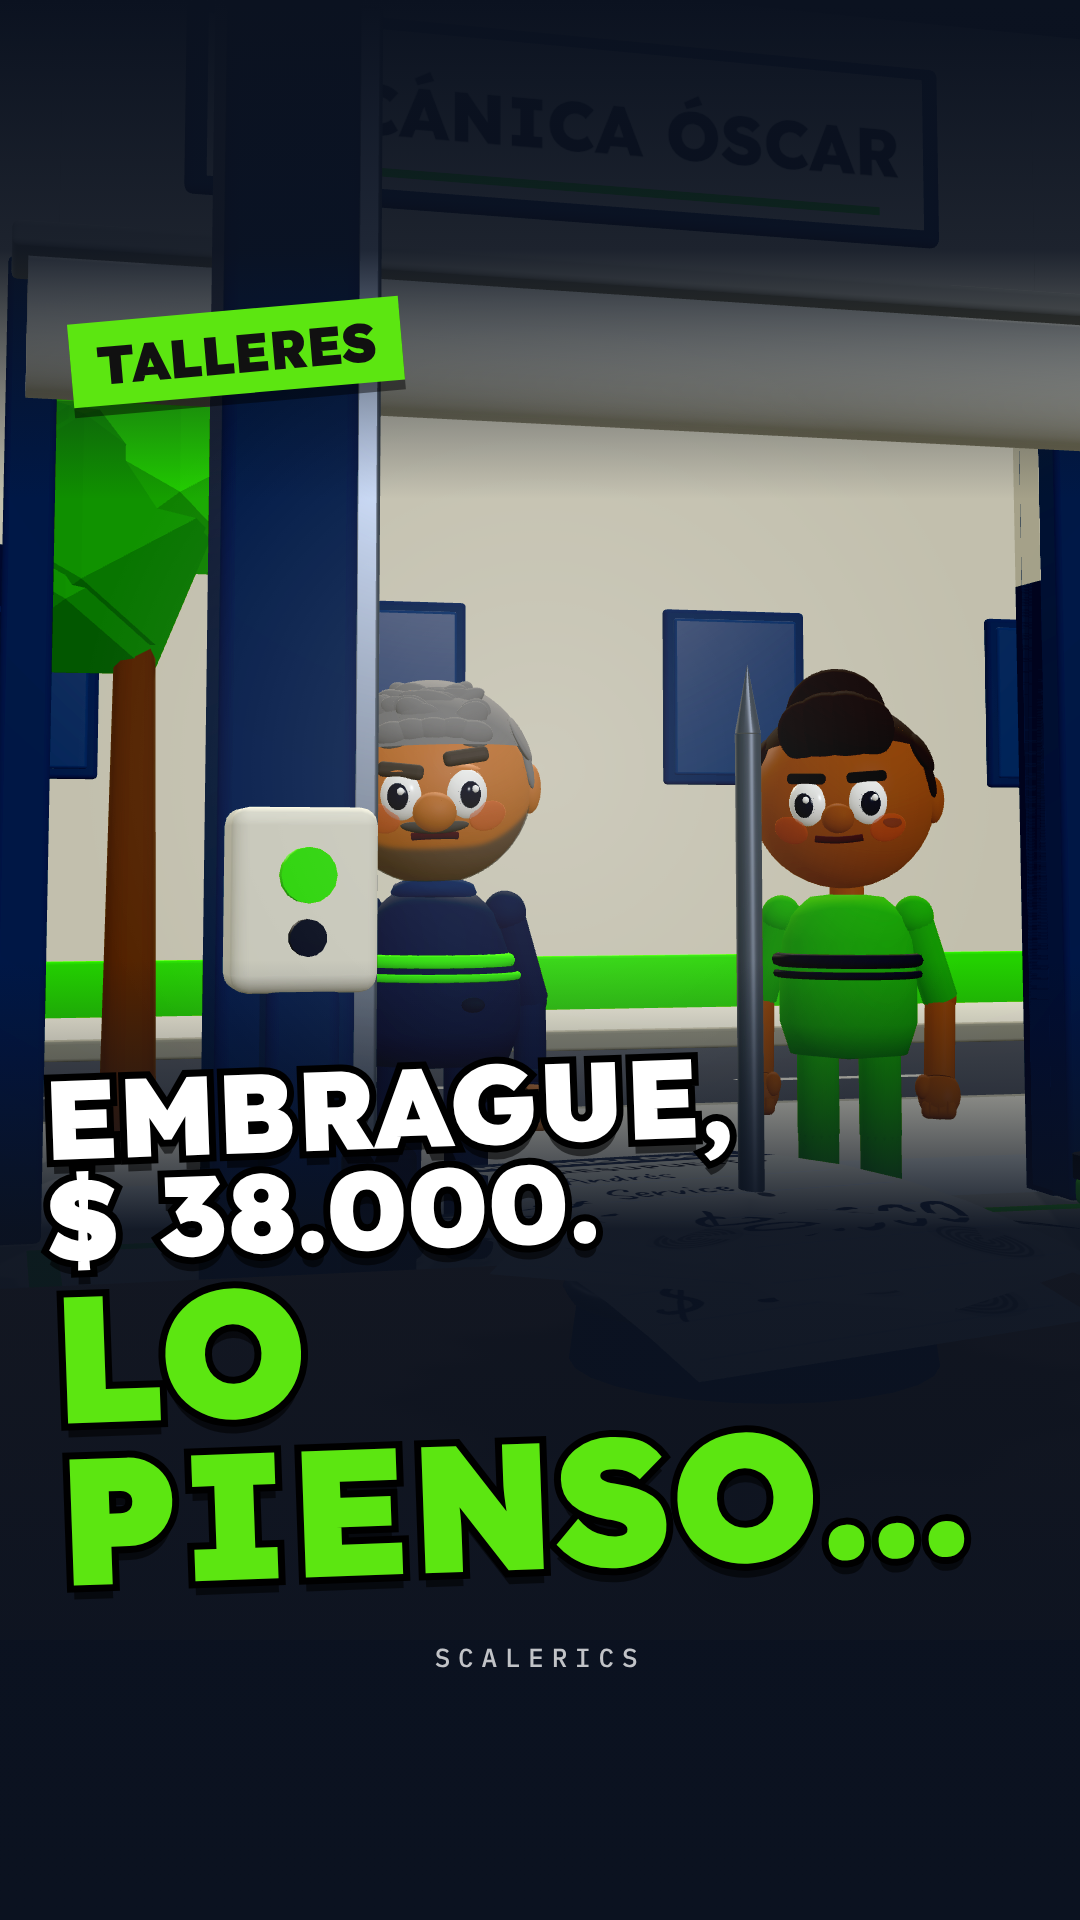
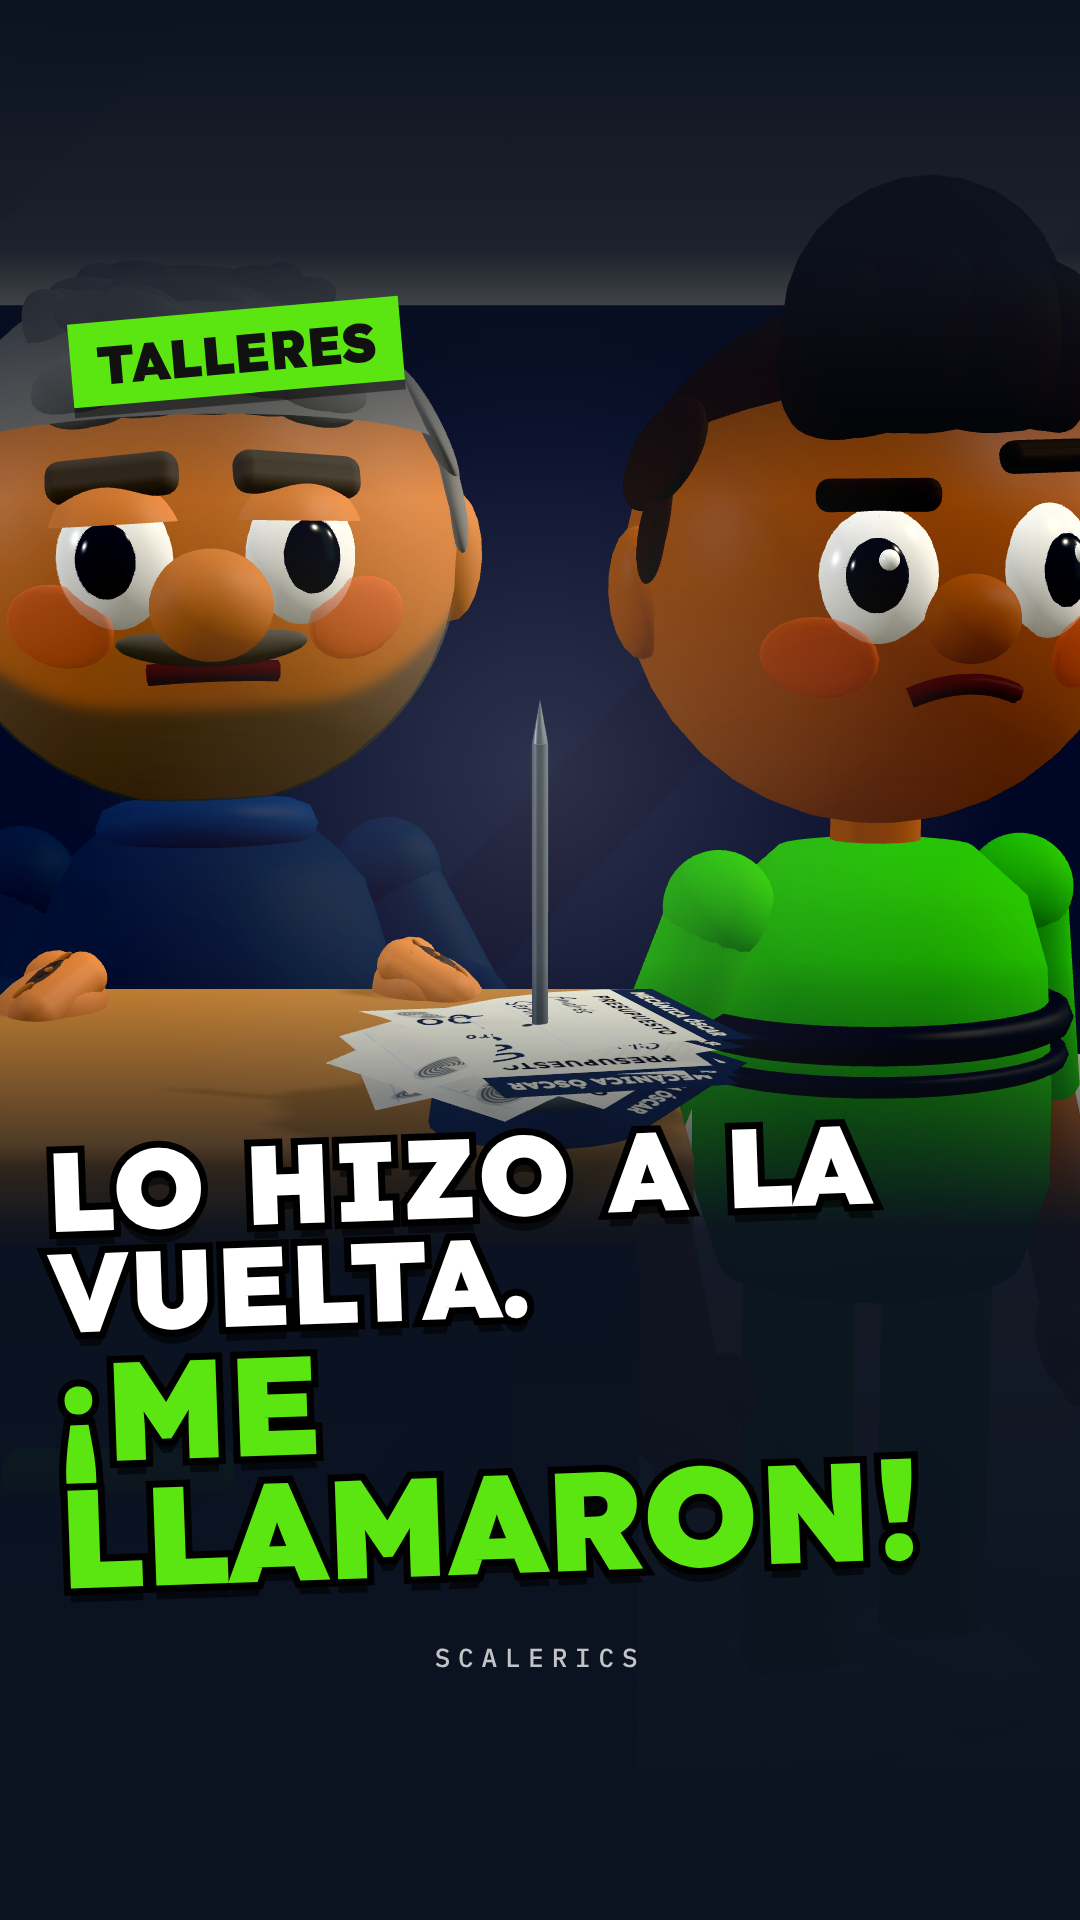
wip: taller-presupuestos (ronda 1 corregida: P4b, cartel, portada, tiempos, Sofi)
Claude-Session: https://claude.ai/code/session_01Fn7kXCSbk5KzXdzYGAHXgA

diff --git a/reels/taller-presupuestos/assets/tres.js b/reels/taller-presupuestos/assets/tres.js
@@ -225,8 +225,8 @@ const cartelT = lienzo(1200, 260, (x, w, h) => { x.fillStyle = "#efeee5"; x.fill
   { const rollo = mesh(new THREE.CylinderGeometry(0.22, 0.22, PORTON.x1 - PORTON.x0 + 0.2, 28), M.cr, (PORTON.x0 + PORTON.x1) / 2, PORTON.alto - 0.16, ZF + 0.42); rollo.rotation.z = Math.PI / 2; SET.add(rollo); SET.add(caja(PORTON.x1 - PORTON.x0 + 0.3, 0.08, 0.5, M.cr2, (PORTON.x0 + PORTON.x1) / 2, PORTON.alto + 0.08, ZF + 0.38, 0.02)); }
   // el cartel "MECÁNICA ÓSCAR" arriba del portón (placa crema con borde navy; se lee de frente)
   // (r1) a la derecha del portón, lejos del travesaño del elevador (detrás del travesaño se perdían las tildes)
-  SET.add(caja(2.7, 0.66, 0.06, M.navy3, 4.15, 2.75, ZF + 0.14, 0.03));
-  SET.add(plano(2.56, 0.555, cartelT, 4.15, 2.75, ZF + 0.175));
+  // (r1) sin cartel en la pared: detrás del travesaño perdía las tildes y en los costados quedaba cortado; el nombre
+  // "Mecánica Óscar" va en los presupuestos, el chat, la tablet y el celular de Sergio
   // ---- afuera: la vereda crema con su cordón, la calle, la vereda de enfrente y la fachada crema con ventanas navy ----
   const af = (w, d, x, z, m, y = 0) => { const p = mesh(new THREE.PlaneGeometry(w, d), m, x, y, z); p.rotation.x = -Math.PI / 2; p.castShadow = false; SET.add(p); };
   af(30, 1.8, 0, ZF - 1.0, M.cr, 0.12); SET.add(caja(30, 0.12, 0.14, M.cr3, 0, 0.06, ZF - 1.93, 0.02));
@@ -631,7 +631,9 @@ const tilde = (x, cx, cy, s, color = "#0b1220", lw = null) => { x.strokeStyle = 
 function renglones(x, txt, ancho) { const ws = txt.split(" "), out = []; let l = ""; for (const w of ws) { const p = l ? l + " " + w : w; if (x.measureText(p).width > ancho && l) { out.push(l); l = w; } else l = p; } if (l) out.push(l); return out; }
 
 // ---- Sofi en videollamada: una escena aparte que se renderiza a una textura cada cuadro (Q5) ----
-const sofi = crearPersonaje({ ...ELENCO.sofi, camisa: 0x2c4268, franja: null, cuello: MARCA.cr, cuelloBotones: false, cuelloFino: true, auricularFino: false, dedos: true, parpadeoCada: 999, parpadeosExtra: [] });   // (r1) sin los aros crema en el torso; auriculares verdes grandes
+const sofi = crearPersonaje({ ...ELENCO.sofi, camisa: 0x2c4268, franja: null, cuello: MARCA.cr, cuelloBotones: false, cuelloFino: true, auricularFino: true, dedos: true, parpadeoCada: 999, parpadeosExtra: [] });   // (r1) sin los aros crema en el torso
+// (r1) las copas verdes de los auriculares más grandes y por fuera del pelo: que se vean de frente en la videollamada
+for (const sx of [-1, 1]) { const c = mesh(new THREE.CylinderGeometry(0.08, 0.08, 0.07, 24).rotateZ(Math.PI / 2), M.g, sx * 0.37, 0.24, 0.02); sofi.cabeza.add(c); const v = mesh(new THREE.TorusGeometry(0.36, 0.02, 8, 32, Math.PI), M.navy, 0, 0.27, 0.0); if (sx > 0) sofi.cabeza.add(v); }
 const SOFI = { esc: new THREE.Scene(), rt: new THREE.WebGLRenderTarget(432, 768), cam: new THREE.PerspectiveCamera(28, 432 / 768, 0.05, 20) };
 {
   SOFI.rt.texture.colorSpace = THREE.SRGBColorSpace;
@@ -940,18 +942,18 @@ const PLANOS = [
   ["P1", 0, [[0, ...P1C(0)], [T.p2, ...P1C(1)]]],
   // P1b: el chac, de cerca, desde atrás del banco (Óscar de frente clava la copia)
   ["P1b", r2(T.clava[0] + 0.12), [[r2(T.clava[0] + 0.12), -3.35, 1.62, 2.75, -1.4, 1.22, 0.75, 44], [T.p2, -3.3, 1.62, 2.68, -1.4, 1.22, 0.75, 42]]],
-  ["P2", T.p2, [[T.p2, PINCHO.x + 0.9, 1.62, PINCHO.z + 0.72, PINCHO.x, 1.52, PINCHO.z, 46], [T.p3, PINCHO.x + 0.86, 1.6, PINCHO.z + 0.68, PINCHO.x, 1.5, PINCHO.z, 44]]],
+  ["P2", T.p2, [[T.p2, PINCHO.x + 1.0, 1.66, PINCHO.z + 0.8, PINCHO.x, 1.42, PINCHO.z, 46], [T.p3, PINCHO.x + 0.96, 1.64, PINCHO.z + 0.76, PINCHO.x, 1.4, PINCHO.z, 44]]],
   ["P3", T.p3, [[T.p3, 0.85, 1.55, 5.6, -0.55, 1.22, 0.6, 48], [T.p4, 0.82, 1.55, 5.35, -0.55, 1.22, 0.6, 46]]],
   ["P4", T.p4, [[T.p4, 0.2, 1.55, 4.3, -0.15, 1.4, -7.5, 42], [T.p5, 0.2, 1.55, 4.1, -0.05, 1.4, -7.5, 41]]],
   // (r1) P4b: de cerca, desde la vereda del taller, la cámara acompaña a Sergio asomado por la ventanilla
   ["P4b", r2(T.s2 + 0.05), "sergio"],
   ["P5", T.p5, [[T.p5, -1.98, 1.5, 2.3, -0.9, 0.95, -4.0, 50], [T.p6, -1.98, 1.5, 2.22, -0.9, 0.95, -4.0, 48]]],
-  ["P6", T.p6, [[T.p6, -0.45, 1.6, -2.75, -0.8, 1.45, -4.35, 42], [T.p7, -0.47, 1.58, -2.85, -0.8, 1.45, -4.35, 40]]],
+  ["P6", T.p6, [[T.p6, -0.12, 1.6, -2.75, -0.5, 1.45, -4.35, 42], [T.p7, -0.15, 1.58, -2.85, -0.5, 1.45, -4.35, 38]]],
   ["P7", T.p7, [[T.p7, -0.55, 1.62, 1.75, -2.05, 1.28, 1.18, 46], [P1, -0.62, 1.6, 1.72, -2.05, 1.28, 1.18, 43]]],
   // ---- parte 2 ----
   ["Q1", P2, [[P2, ...P1C(0)], [r2(T.enviar - 0.4), ...P1C(0.6)]]],
   // Q1t: por encima del hombro de Óscar, toca Enviar en la tablet
-  ["Q1t", r2(T.enviar - 0.4), [[r2(T.enviar - 0.4), -0.62, 1.72, 2.45, -1.95, 1.2, 1.5, 40], [T.q1b, -0.66, 1.7, 2.38, -1.95, 1.2, 1.5, 38]]],
+  ["Q1t", r2(T.enviar - 0.4), [[r2(T.enviar - 0.4), -0.6, 1.72, 2.6, -1.95, 1.2, 1.74, 42], [T.q1b, -0.64, 1.7, 2.55, -1.95, 1.2, 1.74, 40]]],
   ["Q1b", T.q1b, null],
   ["Q2", T.q2, null],
   ["Q2b", T.q2b, [[T.q2b, 30.6, 1.55, 2.6, 29.85, 1.42, 0.0, 40], [T.q2c, 30.55, 1.55, 2.4, 29.85, 1.42, 0.0, 37]]],
@@ -1285,7 +1287,7 @@ function renderAt(tIn) {
   if (pl[2] === "sergio") {
     // P4b: desde la vereda del taller, acompaña la cabeza de Sergio en la ventanilla
     sergio.raiz.updateMatrixWorld(true); const h = sergio.cabeza.localToWorld(V3(0, 0.25, 0));
-    ponerCam([h.x + 0.3, 1.4, ZF - 0.55, h.x + 0.1, h.y - 0.35, h.z, 58], t);
+    ponerCam([h.x + 0.3, 1.5, ZF - 0.5, h.x + 0.1, h.y - 0.4, h.z, 64], t);
     if (VER && VER.startsWith("cam:")) ponerCam(VER.slice(4).split(",").map(Number), t);
     if (window.__cam) ponerCam(window.__cam, t);
     camera.updateMatrixWorld(true);
@@ -1297,7 +1299,7 @@ function renderAt(tIn) {
   if (planoActual === "Q5") {
     sofi.poner(poseSofi(t)); sofi.raiz.updateMatrixWorld(true);
     const c = sofi.cabeza.localToWorld(V3(0, 0.2, 0));
-    SOFI.cam.position.set(c.x + 0.05, c.y + 0.0, c.z + 2.1); SOFI.cam.lookAt(c.x, c.y - 0.2, c.z);
+    SOFI.cam.position.set(c.x + 0.05, c.y + 0.02, c.z + 2.75); SOFI.cam.lookAt(c.x, c.y - 0.28, c.z);
     renderer.setRenderTarget(SOFI.rt); renderer.render(SOFI.esc, SOFI.cam); renderer.setRenderTarget(null);
   }
   // ---- insertos ----
@@ -1317,7 +1319,8 @@ function renderAt(tIn) {
     sergio.raiz.visible = false; PINCHO2.visible = false; celuO.visible = false; TRAPO_MANO.visible = false; TRAPO_BOLSILLO.visible = true;
     oscar.poner({ ...poseEn(t, [[0, { x: BANCO.x - 0.62, z: 1.42, giro: Math.PI / 2 + 0.25, ...aC(-0.05, 0.12), ...SECO, cejas: { alto: 0.1, ang: 0.25 }, ...BRAZOS.costado, manoI: [0.22, 0.32, 0.3], manoD: [-0.22, 0.32, 0.3] }]]), t });
     maxi.raiz.visible = true; maxi.poner({ ...poseEn(t, [[0, { x: BANCO.x - 0.6, z: 0.62, giro: Math.PI / 2 + 0.45, ...aC(-0.25, 0.08), ...CARA.incredula, ojos: { abiertos: 0.95 }, ...BRAZOS.costado }]]), t });
-    ponerCam([-0.5, 1.42, 1.32, -2.2, 1.42, 1.0, 46], t); camera.updateMatrixWorld(true);
+    PINCHO1.position.set(BANCO.x + 0.27, BANCO.alto, 1.02); PINCHO1.rotation.set(0, 0, 0); for (let i = 0; i < 5; i++) papelEnPincho(PAPELES[i], PINCHO1, i, i, 1);
+    ponerCam([0.2, 1.36, 1.02, -2.3, 1.12, 1.02, 47], t); camera.updateMatrixWorld(true);
     for (const p of TODOS) if (p.raiz.visible) p.ojoLejano(camera.position);
   }
   // ---- tarjetas ----
@@ -1339,9 +1342,9 @@ function renderAt(tIn) {
       if (t >= T.m1) { const [bx, by] = boca(maxi); ponerGlobo(GL.m1, 720, 420, ent(T.m1) * sale(T.o1), [bx, by - 30], 1); }
       if (t >= T.o1) { const [bx, by] = boca(oscar); ponerGlobo(GL.o1, 330, 480, ent(T.o1), [bx, by - 30], 2); }
     }
-    if (pa === "P4" && t >= T.s2) { const [bx, by] = boca(sergio); ponerGlobo(GL.s2, 540, 330, ent(T.s2), bx > -50 && bx < 1130 ? [bx, by - 30] : null); }
+    if ((pa === "P4" || pa === "P4b") && t >= T.s2) { const [bx, by] = boca(sergio); ponerGlobo(GL.s2, 540, 330, ent(T.s2), pa === "P4b" ? [bx, by - 60] : null); }
     if (pa === "P5") {
-      const [ax, ay] = objPx(PINCHO1, V3(0, 0.12, 0)), [ex, ey] = enPantalla(V3(LX + 0.4, 0.4, LZ + 1.0));
+      const [ax, ay] = objPx(PINCHO1, V3(0, 0.12, 0)), [ex, ey] = enPantalla(V3(LX - 0.55, 0.4, LZ + 0.6));
       const u0 = ent(T.rot[0]), u1 = ent(T.rot[1]), u2 = ent(T.rot[2]);
       ponerGlobo(GL.r1, 330, 1180, u0, null, 1); if (u0 > 0) ponerGuia(GUIAS[0], 330, 1250, ax, ay, eo(sg(t, T.rot[0], T.rot[0] + 0.25)));
       ponerGlobo(GL.r2, 330, 1360, u1, null, 1);

diff --git a/reels/taller-presupuestos/compositions/cartel.html b/reels/taller-presupuestos/compositions/cartel.html
@@ -60,7 +60,7 @@
           tl.to(l, { y: s * (8 + (i % 3) * 3), rotation: s * (i % 2 ? 4 : -4), duration: 0.17 + (i % 4) * 0.02, ease: "sine.inOut" }, t0 + 0.34 + k * 0.2);
         }
       });
-      tl.to(q(".texto"), { scale: 0.5, opacity: 0, duration: 0.1, ease: "power2.in" }, 2.41);   // (r2 11:11) sale mientras crece el iris; (r1 11:11) sale justo cuando abre el iris (no queda el verde vacío)   // (ronda 2) se va entero antes del iris   // se va antes de que abra el iris
+      tl.to(q(".texto"), { scale: 0.5, opacity: 0, duration: 0.08, ease: "power2.in" }, 2.23);   // (r1) se va antes del iris   // (r2 11:11) sale mientras crece el iris; (r1 11:11) sale justo cuando abre el iris (no queda el verde vacío)   // (ronda 2) se va entero antes del iris   // se va antes de que abra el iris
       window.__timelines = window.__timelines || {};
       window.__timelines[ID] = tl;
     })();

diff --git a/reels/taller-presupuestos/NOTAS-constructor.md b/reels/taller-presupuestos/NOTAS-constructor.md
@@ -79,3 +79,47 @@ mp4 provisorio (borrado); cuando esté el render, se puede volver a correr igual
 - La tarjeta que se mueve en el tablero pasa un instante por encima de la de Sergio (0,28 s).
 - 38,57 s (objetivo ≤ 38): si hay que recortar, la pausa de P5 (0,95 s) o Q2 (0,8 s antes de Sergio).
 - Revisión de arte sobre el MP4 renderizado: no hecha (no se renderizó, lo hace el coordinador).
+
+## Ronda 1 (16-11, sobre qa-ronda-r1.md)
+**Duración 38,0 s** (1140/30). Parte 1 0-15,66 · cartel 15,66-18,29 · **parte 2 18,29-38,0 = 19,71 s, 51,9 %**. Mezcla: voz
+≥ +6,1 LU en todos los tramos de 0,5 s (los tramos justos son colas de voz contra el toque de "Aceptar" y la puerta del auto),
+-14,0 LUFS, pico -5,9 dBFS. La música baja 0,5 (antes 0,35) debajo de cada voz y la cola del duck es 0,95 s.
+- **Arte 1 / Guion 1 (ALTA):** P4 se parte: P4 general (bocina, el auto entra) y **P4b** desde la vereda del taller
+  acompañando a Sergio asomado por la ventanilla, grande, saludando, con la cola de la burbuja a su boca. Sin piernas
+  dentro del auto (ya no atraviesan el piso); más inclinado hacia la ventanilla.
+- **Arte 2 (ALTA):** sin cartel de pared: detrás del travesaño del elevador se le perdían las tildes y movido a un costado
+  quedaba cortado en P1b y Q3b. "Mecánica Óscar" queda escrito, siempre con tildes, en los presupuestos de papel, el chat,
+  la tablet y el celular de Sergio. Tampoco queda el cartel vacío detrás del travesaño (arte 4).
+- **Guion 2 (portada):** VER=portada en tres.js: Óscar y Maxi de frente detrás del banco con el pincho lleno adelante;
+  grande "¡Me llamaron!", chica "Lo hizo a la vuelta.", sello TALLERES; sin botonera ni cartel.
+- Guion 3 / arte 17: P7 plano corto del banco, Maxi detrás del banco apoya el segundo pincho al lado del lleno.
+- Guion 4: Q5 con la tablet entera 0,62 s ("Seguimientos a mano: 0" se lee) antes del viaje a Sofi.
+- Guion 5: chip "VIERNES" en el tablero (Q3). Guion 8: descripcion.txt con el sujeto ("Sergio pasa por la puerta").
+- Arte 3: P2 con el pincho más abajo (el clavo ya no entra en el celular). Arte 9: el chat arranca con MARTES en P2.
+- Arte 5: Óscar y Maxi más a la derecha en el portón (Óscar no queda detrás de la columna); rótulo "a la vuelta" a la
+  izquierda con la guía al elevador vacío.
+- Arte 6: en Q4 Sergio se baja y camina hasta Óscar (0,5 s, pasos) antes del plano de la llave.
+- Arte 7 / 8: el presupuesto y el seguimiento llegan al instante (sin pantallas vacías).
+- Arte 10: la burbuja de Sergio en Q1 corta seco (sin fantasma). Arte 11: Q1t con la tablet entera.
+- Arte 12: la rueda suelta acostada en el piso al costado de la columna derecha (ya no parece una mochila ni flota).
+- Arte 13: sedán con techo grueso, parabrisas y luneta más inclinados, capó más bajo.
+- Arte 15: sin parpadeo de Sergio en "Justo lo estaba pensando." Arte 16: Óscar levanta la cabeza al hablar en Q3b
+  (se le ve la boca) y Maxi ya terminó (hay corte y pausa antes).
+- Arte 18: "Visto 10:12" y "enviados esta semana" a 42 px. Arte 19: el celular de Sergio sin la mano de cartón.
+- Arte 20: Sofi sin los aros crema en el torso (sin franja; cuello crema), copas verdes de auriculares grandes por fuera
+  del pelo y la cámara de la videollamada más abierta (se ven la vincha y las copas).
+- Arte 14 / 21 / sonido 10: resueltos con P4b.
+- Sonido 1: corte a Q3b y 0,42 s antes de "Ya les escribió el sistema." · 2: 0,42 s entre "Lo pensé." y "Y me
+  avisaste." · 3: bocina al techo (-31) · 4: tac del segundo pincho -31 y stinger -33 · 5: auto que entra -33 (puerta
+  -37 para no pisar a Sergio) · 6: el primer chac/notificación más fuertes · 7: llaves -33 · 8: "más tarde…" entra en "más"
+  (1,42 s) · STT: m1 nueva toma (02-maxi-g), el STT oye "jefe a esos no los llamamos".
+- Recortes para 38 s: semana 0,62 s por día, pausa P5 0,8, Q1b 0,88, Q2 0,55 antes de Sergio, tablero 0,8 antes de
+  Maxi, Q4c 0,9, Q5 0,62.
+- No hecho: arte 18 "$ 22.0" con la huella encima (es la huella de grasa del papel, se deja); sonido 9 (el último plano
+  dura lo que dura la línea de Sofi).
+- OJO: para correr `portada.mjs` (pide el mp4) se reemplazó un momento `renders/taller-presupuestos-final.mp4`; se
+  volvió a generar desde `renders/taller-presupuestos.mp4` con el ffmpeg del paso 10 (igual queda viejo: hay que
+  renderizar de nuevo).
+- Pasadas: renders/snap/r1 (cada 0,5 s desde 0) y renders/snap/r1b (desde 0,25) después de corregir; en r1 faltaba la
+  burbuja de Sergio en P4b, la guía de "a la vuelta" se iba de cuadro, P6 descentrado, Q1t cortado, el iris abría sobre el
+  texto del cartel (el texto sale ahora 0,4 s antes) → corregidos y vistos en r1b. `check --json` 0 errores.
